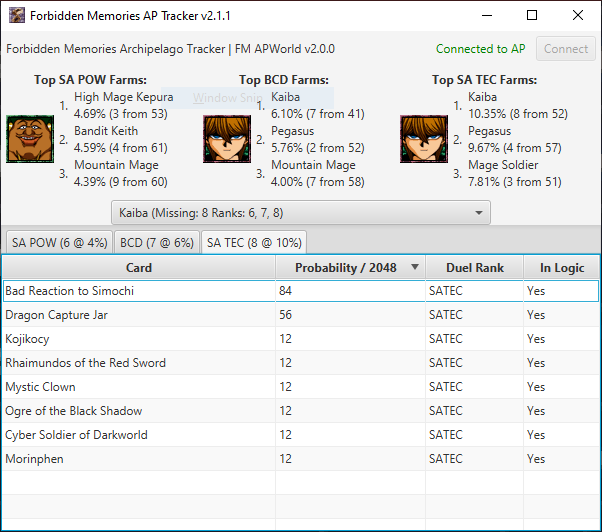
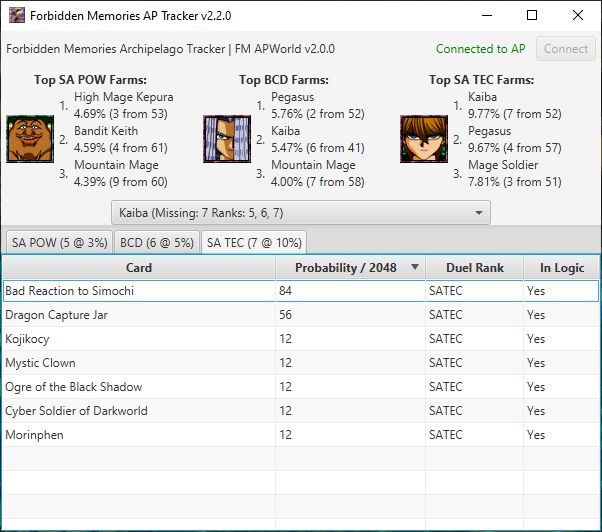
Use proper version incrementation

diff --git a/src/main/java/moe/maika/fmaptracker/Version.java b/src/main/java/moe/maika/fmaptracker/Version.java
@@ -19,7 +19,7 @@
 package moe.maika.fmaptracker;
 
 public class Version {
-    private static final String VERSION_STRING = "v2.1.1";
+    private static final String VERSION_STRING = "v2.2.0";
 
     private static final int MAJOR, MINOR, PATCH;
 
